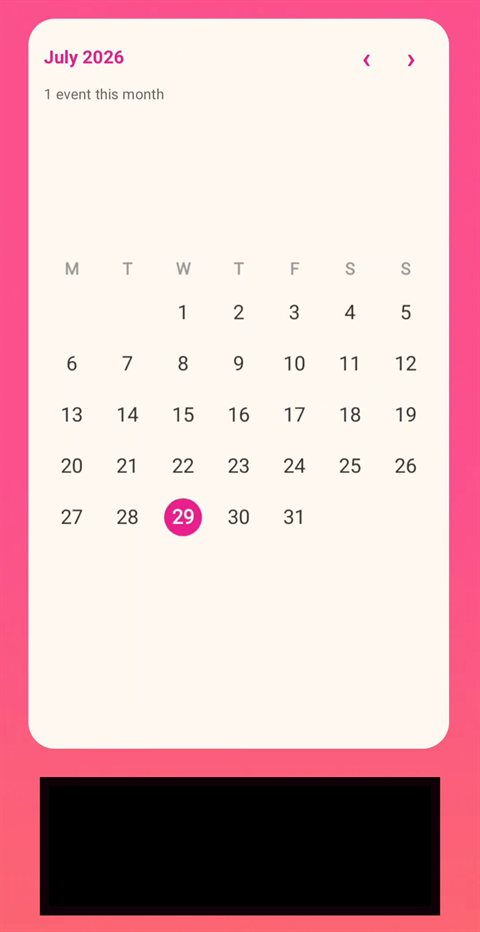
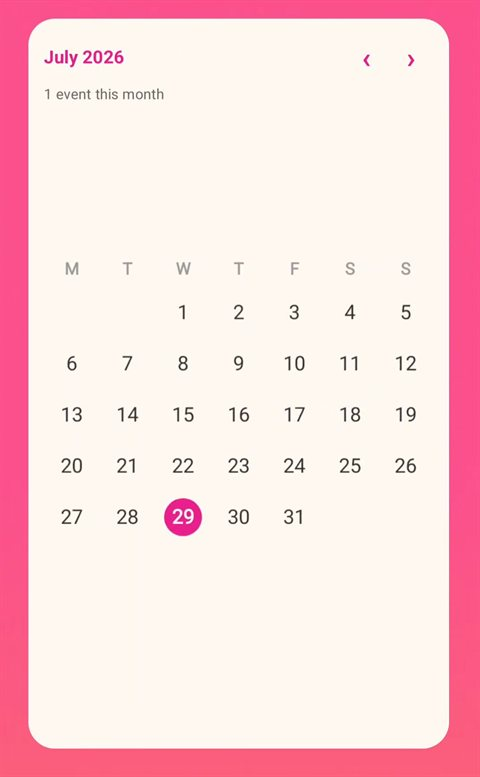
Add phone calendar to results, trim widget/calendar black bars, balance camera steps
Results now show app list + phone (Samsung) calendar + widget. Cropped the
home-screen black letterbox off the widget and calendar frames so they align.
Camera flow trimmed to 5 balanced steps (flex-centered); step 5 now covers
check + save. Gallery clause dropped from the camera step.

diff --git a/usage.html b/usage.html
@@ -67,8 +67,8 @@
   .use figcaption{margin-top:10px; font-weight:600; font-size:.98rem; color:var(--ink); text-align:center;}
 
   /* Steps */
-  .steps{display:grid; grid-template-columns:repeat(auto-fit,minmax(240px,1fr)); gap:22px; margin-top:26px;}
-  .card{background:var(--cream); border:1px solid var(--line); border-radius:16px; padding:16px; text-align:center;}
+  .steps{display:flex; flex-wrap:wrap; justify-content:center; gap:22px; margin-top:26px;}
+  .card{flex:0 1 240px; background:var(--cream); border:1px solid var(--line); border-radius:16px; padding:16px; text-align:center;}
   .card img{width:100%; max-width:230px; border-radius:12px; border:1px solid var(--line); display:block; margin:0 auto 14px;}
   .badge{display:inline-flex; align-items:center; justify-content:center; width:30px; height:30px; border-radius:50%; background:var(--gold); color:#6b4e00; font-weight:700; margin-bottom:8px;}
   .card h3{margin:0 0 4px; font-size:1.1rem; color:var(--ink);}
@@ -213,8 +213,8 @@
           <span class="badge">2</span>
           <img src="images/guide_capture.jpg" alt="">
           <h3><span class="de">Plakat fotografieren</span><span class="en">Snap a poster</span></h3>
-          <p><span class="de">Richte die Kamera auf ein Plakat oder wähle ein Bild aus der Galerie.</span>
-             <span class="en">Point the camera at a poster, or pick one from your gallery.</span></p>
+          <p><span class="de">Richte die Kamera auf ein Plakat.</span>
+             <span class="en">Point the camera at a poster.</span></p>
         </div>
 
         <div class="card">
@@ -236,17 +236,9 @@
         <div class="card">
           <span class="badge">5</span>
           <img src="images/guide_details.jpg" alt="">
-          <h3><span class="de">Details prüfen</span><span class="en">Check the details</span></h3>
-          <p><span class="de">Name, Datum und Ort werden automatisch ausgefüllt. Prüfe und bearbeite bei Bedarf.</span>
-             <span class="en">Name, date and place are filled in automatically. Check and edit if needed.</span></p>
-        </div>
-
-        <div class="card">
-          <span class="badge">6</span>
-          <img src="images/guide_calendar.jpg" alt="">
-          <h3><span class="de">Im Kalender speichern</span><span class="en">Save to your calendar</span></h3>
-          <p><span class="de">Speichere den Termin direkt im Kalender deines Handys oder in der App.</span>
-             <span class="en">Save it straight to your phone's calendar, or keep it in the app.</span></p>
+          <h3><span class="de">Prüfen &amp; speichern</span><span class="en">Check &amp; save</span></h3>
+          <p><span class="de">Name, Datum und Ort werden automatisch ausgefüllt. Prüfe, bearbeite und speichere den Termin.</span>
+             <span class="en">Name, date and place are filled in automatically. Check, edit and save the event.</span></p>
         </div>
 
       </div>
@@ -286,6 +278,12 @@
           <h3><span class="de">Alle Termine an einem Ort</span><span class="en">All your events in one place</span></h3>
           <p><span class="de">Deine gespeicherten Plakate und Termine bleiben übersichtlich beisammen, mit Name, Datum und Ort auf einen Blick.</span>
              <span class="en">Your saved posters and events stay together, with the name, date and place at a glance.</span></p>
+        </div>
+        <div class="feature">
+          <div class="shot"><img src="images/guide_phone_calendar.jpg" alt=""></div>
+          <h3><span class="de">Im Handy-Kalender</span><span class="en">In your phone calendar</span></h3>
+          <p><span class="de">Der Termin landet auch im Kalender deines Handys, mit Datum, Uhrzeit und Ort.</span>
+             <span class="en">The event also lands in your phone's calendar, with date, time and place.</span></p>
         </div>
         <div class="feature">
           <div class="shot"><img src="images/guide_widget.jpg" alt=""></div>
